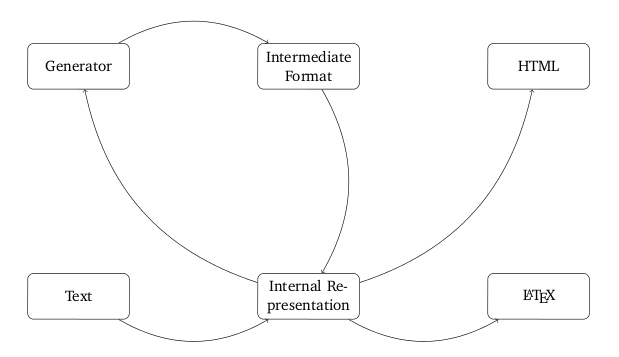
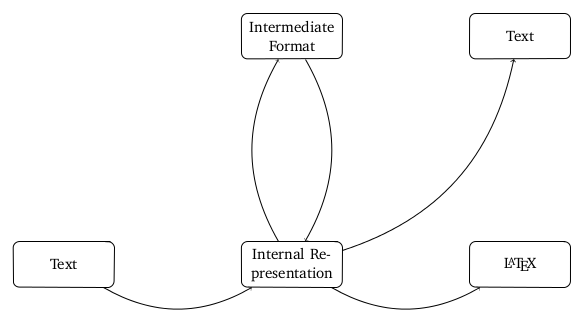
[site] removed html from pictures/text

diff --git a/src/site/markdown/overview.md b/src/site/markdown/overview.md
@@ -13,7 +13,7 @@ Steps in the process:
 2. Activate one or more Gap Generators
 3. Translate the internal representation into the Intermediate Format (let the user adjust the result)
 4. Reverse the last step
-5. Export to HTML or LaTeX
+5. Export to Plain Text or LaTeX
 
 Intermediate Format
 -------------------
